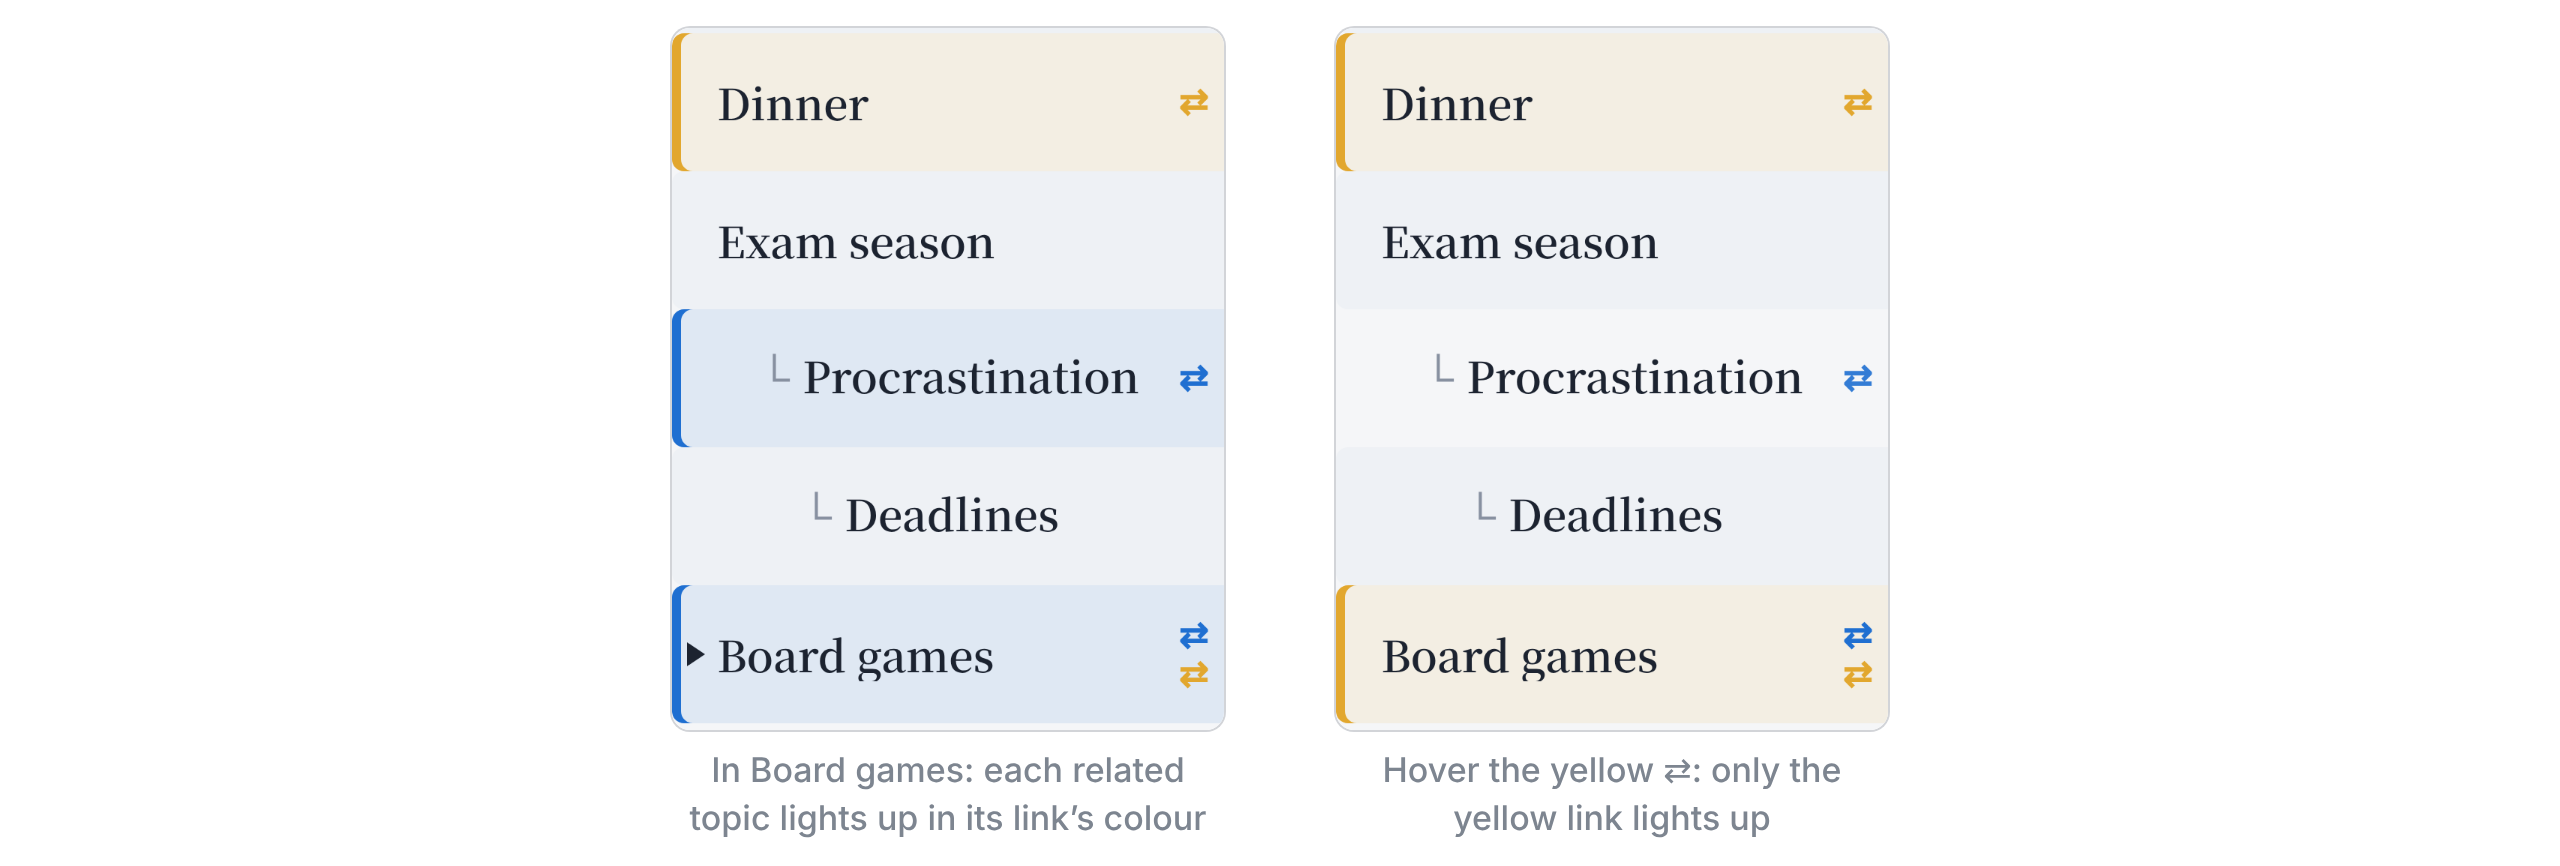
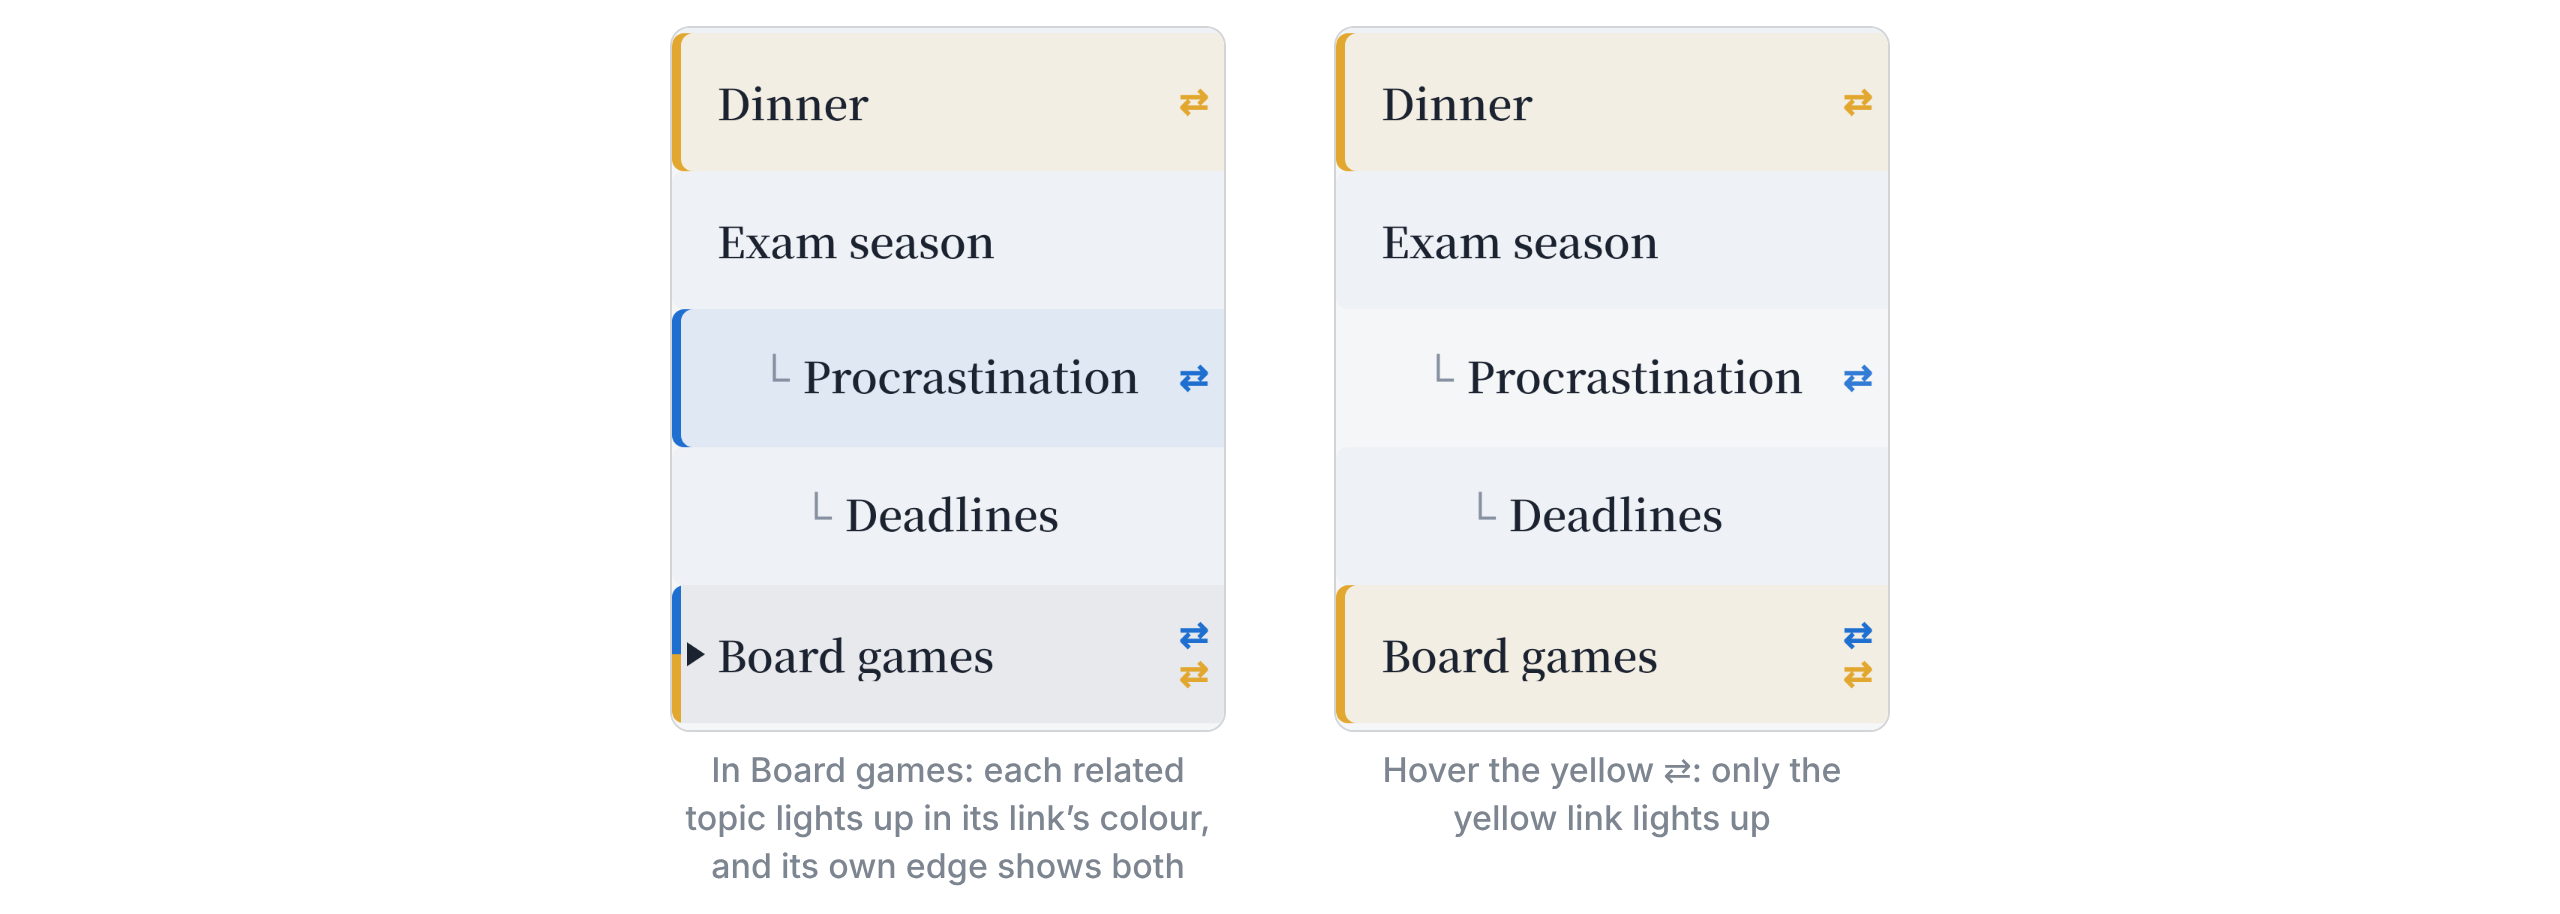
Line Logic Update

diff --git a/index.html b/index.html
@@ -756,6 +756,13 @@ body.editing .toc-row:hover > .toc-link .n,body.editing .toc-sub:hover > .toc-li
 .tl-badges{flex-direction:column;align-items:center;gap:0;right:5px;max-height:calc(100% - 8px);overflow-y:auto;scrollbar-width:none}
 .tl-badges::-webkit-scrollbar{display:none}
 .tl-badges .tl-badge{font-size:.74rem;line-height:1.05}
+
+/* a row related in several colours: its edge splits into them */
+.map-labels button.tl-rel.tl-multi{box-shadow:none;background:color-mix(in srgb, var(--ink) 6%, transparent)}
+.map-labels button.tl-rel.tl-multi::after,.map-labels button.tl-hover-multi::after{content:'';position:absolute;left:0;top:0;bottom:0;width:3px;border-radius:4px 0 0 4px}
+.map-labels button.tl-rel.tl-multi::after{background:var(--tlcg)}
+.map-labels button.tl-hover.tl-hover-multi{box-shadow:none;background:color-mix(in srgb, var(--ink) 6%, transparent)}
+.map-labels button.tl-hover-multi::after{background:var(--tlhg)}
 </style>
 </head>
 <body>
@@ -1738,6 +1745,12 @@ function edgePath(p, q){
 /* Related topics: a small ⇄ after the row's name; the rows related to the one you are in, or hovering, light up */
 function tlIdOf(ln){ return ln.sub.hidden ? ln.topic.id : ln.sub.id; }
 function tlBranch(l){ const bid = (lib.tlinkColor || {})[l[0] + '|' + l[1]]; return (bid && (lib.branches || []).find(b => b.id === bid)) || null; }
+function tlColours(rels){ return [...new Set(rels.map(r => r.color || 'var(--focus)'))]; }
+function tlStyle(cols, v){
+  if(cols.length === 1) return v + ':' + cols[0];
+  const n = cols.length;
+  return v + 'g:linear-gradient(to bottom,' + cols.map((c, i) => c + ' ' + (i * 100 / n).toFixed(2) + '% ' + ((i + 1) * 100 / n).toFixed(2) + '%').join(',') + ')';
+}
 function tlRelsOf(id){ return (lib.tlinks || []).filter(l => l[0] === id || l[1] === id).map(l => { const br = tlBranch(l); return {o: l[0] === id ? l[1] : l[0], bid: br ? br.id : '', color: br ? br.color : '', name: br ? br.name : ''}; }); }
 function rekeyTl(oldId, newId){
   const m = lib.tlinkColor || {};
@@ -1745,7 +1758,7 @@ function rekeyTl(oldId, newId){
 }
 function tlOf(ln){ const id = tlIdOf(ln); return (lib.tlinks || []).filter(l => l[0] === id || l[1] === id).map(l => l[0] === id ? l[1] : l[0]); }
 function topicLinkArcs(){ return ''; }
-function clearTlHover(){ mapLabels.querySelectorAll('.tl-hover').forEach(x => { x.classList.remove('tl-hover'); x.style.removeProperty('--tlh'); }); }
+function clearTlHover(){ mapLabels.querySelectorAll('.tl-hover').forEach(x => { x.classList.remove('tl-hover', 'tl-hover-multi'); x.style.removeProperty('--tlh'); x.style.removeProperty('--tlhg'); }); }
 mapLabels.addEventListener('mouseover', ev => {
   clearTlHover();
   const b = ev.target.closest('button[data-tl-id]'); if(!b || !b.dataset.tlRel) return;
@@ -1753,10 +1766,15 @@ mapLabels.addEventListener('mouseover', ev => {
   const rels = b.dataset.tlRel.split(' ').map(s => s.split('~')).filter(p => only === null || p[1] === only);
   if(!rels.length) return;
   const col = {}; rels.forEach(p => { col[p[0]] = p[2] || 'var(--focus)'; });
-  const self = only !== null && rels[0][2] ? rels[0][2] : 'var(--focus)';
+  const selfCols = [...new Set(rels.map(p => p[2] || 'var(--focus)'))];
+  const paint = (x, cols) => {
+    x.classList.add('tl-hover');
+    if(cols.length > 1){ x.classList.add('tl-hover-multi'); const m = tlStyle(cols, '--tlh').split(':'); x.style.setProperty(m[0], m.slice(1).join(':')); }
+    else x.style.setProperty('--tlh', cols[0]);
+  };
   mapLabels.querySelectorAll('button[data-tl-id]').forEach(x => {
-    const c = x === b ? self : col[x.dataset.tlId]; if(!c) return;
-    x.classList.add('tl-hover'); x.style.setProperty('--tlh', c);
+    if(x === b) paint(x, selfCols);
+    else if(col[x.dataset.tlId]) paint(x, [col[x.dataset.tlId]]);
   });
 });
 mapLabels.addEventListener('mouseleave', clearTlHover);
@@ -1769,7 +1787,7 @@ function renderMapLabels(lanes, laneH){
   /* the row you are in, and every row related to it, light up together (in the link's colour) */
   const litTl = {};
   const here = ui.page !== 'concepts' ? (ui.sub || ui.topic) : null;
-  if(here){ const hr = tlRelsOf(here); if(hr.length){ litTl[here] = 'var(--focus)'; hr.forEach(r => { if(!litTl[r.o] || litTl[r.o] === 'var(--focus)') litTl[r.o] = r.color || 'var(--focus)'; }); } }
+  if(here){ const hr = tlRelsOf(here); if(hr.length){ litTl[here] = tlColours(hr); hr.forEach(r => { litTl[r.o] = [r.color || 'var(--focus)']; }); } }
   mapLabels.innerHTML = lanes.map((ln, i) => {
     if(ln.concepts) return '<button type="button" class="' + (i % 2 === 0 ? 'band' : '') + ' lane-concepts' + (ui.page === 'concepts' ? ' on' : '') + '" data-view="__concepts" style="--d:0" title="Open the Concepts page"><span class="lab-in"><span class="full"><span class="nm"><i class="sq" aria-hidden="true"></i>Concepts</span></span><span class="short">Ideas</span></span></button>';
     const anc = subAncestors(ln.sub);
@@ -1784,7 +1802,7 @@ function renderMapLabels(lanes, laneH){
     const groups = []; rels.forEach(r => { let g = groups.find(x => x.bid === r.bid); if(!g){ g = {bid: r.bid, color: r.color, name: r.name, os: []}; groups.push(g); } g.os.push(r.o); });
     const lit = litTl[tid];
     const badges = groups.length ? '<span class="tl-badges">' + groups.map(g => '<span class="tl-badge" data-tl-group="' + g.bid + '"' + (g.color ? ' style="--tlc:' + g.color + '"' : '') + ' title="' + esc((g.name ? g.name + ': ' : 'Related to ') + g.os.map(topicNodeName).join(', ')) + '">⇄</span>').join('') + '</span>' : '';
-    return '<button type="button" class="' + (i % 2 === 0 ? 'band' : '') + (ln.sub.id === ui.sub && ui.page !== 'concepts' ? ' on' : '') + (lit ? ' tl-rel' : '') + '" data-view="' + ln.sub.id + '" data-tl-id="' + tid + '" data-tl-rel="' + esc(rels.map(r => r.o + '~' + r.bid + '~' + r.color).join(' ')) + '" style="--d:' + dd + ';--nb:' + groups.length + (lit ? ';--tlc:' + lit : '') + '" title="Open “' + esc(full) + '”' + (rels.length ? ' · related to ' + esc(rels.map(r => topicNodeName(r.o)).join(', ')) : '') + '"><span class="lab-in"><span class="full">' + (ctx ? '<span class="lt">' + esc(ctx) + '</span>' : '') + '<span class="nm">' + (dd ? '<span class="lane-in" aria-hidden="true">└</span>' : '') + esc(name) + '</span></span>' + badges + '<span class="short">' + esc(name.slice(0, 4)) + '</span></span></button>';
+    return '<button type="button" class="' + (i % 2 === 0 ? 'band' : '') + (ln.sub.id === ui.sub && ui.page !== 'concepts' ? ' on' : '') + (lit ? ' tl-rel' + (lit.length > 1 ? ' tl-multi' : '') : '') + '" data-view="' + ln.sub.id + '" data-tl-id="' + tid + '" data-tl-rel="' + esc(rels.map(r => r.o + '~' + r.bid + '~' + r.color).join(' ')) + '" style="--d:' + dd + ';--nb:' + groups.length + (lit ? ';' + tlStyle(lit, '--tlc') : '') + '" title="Open “' + esc(full) + '”' + (rels.length ? ' · related to ' + esc(rels.map(r => topicNodeName(r.o)).join(', ')) : '') + '"><span class="lab-in"><span class="full">' + (ctx ? '<span class="lt">' + esc(ctx) + '</span>' : '') + '<span class="nm">' + (dd ? '<span class="lane-in" aria-hidden="true">└</span>' : '') + esc(name) + '</span></span>' + badges + '<span class="short">' + esc(name.slice(0, 4)) + '</span></span></button>';
   }).join('');
   mapLabels.classList.toggle('has-tl', !!arcsSvg);
   if(arcsSvg) mapLabels.insertAdjacentHTML('beforeend', arcsSvg);

diff --git a/README.md b/README.md
@@ -26,7 +26,7 @@ Top-level topics are for big areas, such as a field or a project. Links between 
 
 ### Concepts
 
-A topic is where a paper lives; a concept is an idea it needs, with the year the idea appeared. Concepts sit in their own row at the top of the map and have their own page in Contents, and a paper in any topic can need several of them. Add one from **+ New paper ▾ → Concept**, or straight from a paper's Prerequisite concepts.
+A topic is where a paper lives; a concept is an idea it needs, with the year the idea appeared, such as Nash equilibrium (1950). Concepts sit in their own row at the top of the map and have their own page in Contents, and a paper in any topic can need several of them. Add one from **+ New paper ▾ → Concept**, or straight from a paper's Prerequisite concepts.
 
 ---
 
